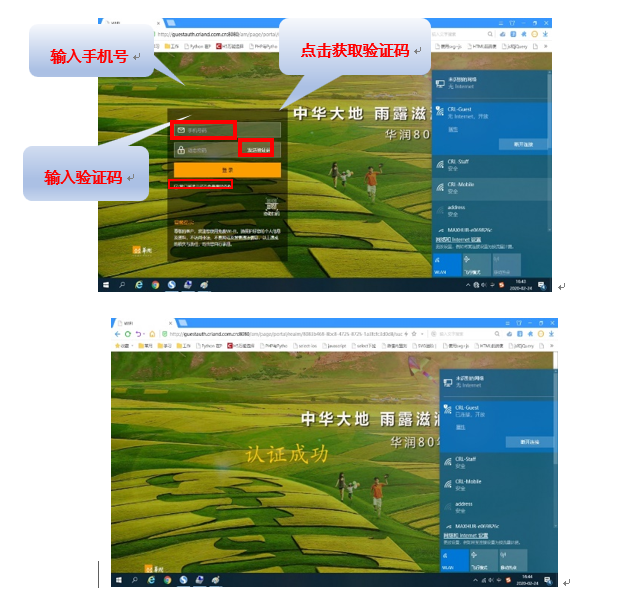
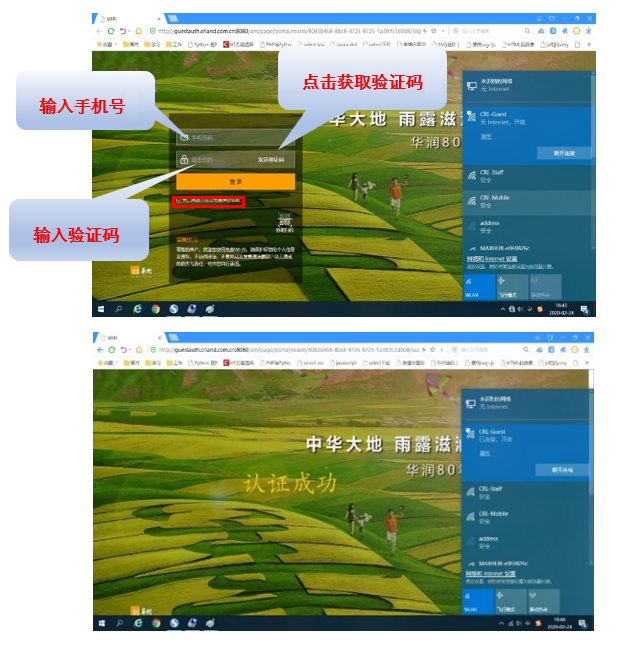
202002262

diff --git a/meeting/4l1meetins.html b/meeting/4l1meetins.html
@@ -1,0 +1,222 @@
+<!DOCTYPE html>
+<html lang="en">
+
+<head>
+    <meta charset="UTF-8">
+    <meta name="viewport" content="width=device-width, initial-scale=1.0">
+    <meta http-equiv="X-UA-Compatible" content="ie=edge">
+    <title>视频会议及Rmeet会议操作指引</title>
+    <link rel="stylesheet" href="../zbwxh/lib/layui/css/layui.css" media="all">
+    <link rel="stylesheet" type="text/css" href="../gotop/css/nav.css">
+    <link rel="stylesheet" type="text/css" href="../gotop/css/font-awesome.min.css">
+    <script type="text/javascript" src="../gotop/js/jquery.min.js"></script>
+    <script src="../zbwxh/lib/layui/layui.js" charset="utf-8"></script>
+    <script type="text/javascript" src="../gotop/js/nav.js"></script>
+    <style type="text/css">
+        body {
+            padding: 0;
+            margin: 0;
+            background: #f2f2f2;
+        }
+
+        .wrap .line {
+            height: 500px;
+            width: 188px;
+            margin: 0 auto;
+        }
+
+        .leftNav-item {
+            position: fixed;
+            left: 82%;
+            top: 80%;
+            z-index: 999999;
+        }
+    </style>
+    <SCRIPT language=javascript>
+        $(function () {
+            $('a').click(function () {
+                //根据a标签的href转换为id选择器，获取id元素所处的位置，并高度减50px（这里根据需要自由设置）
+                $('html,body').animate({
+                    scrollTop: ($($(this).attr('href')).offset().top - 0)
+                }, 500);
+            });
+        });
+    </SCRIPT>
+    <style>
+        .dropbtn {
+            background-color: #4CAF50;
+            color: white;
+            padding: 12px;
+            font-size: 400;
+            border: none;
+            cursor: pointer;
+            z-index: 999999;
+        }
+
+        .dropdown {
+            position: relative;
+            display: inline-block;
+            z-index: 999999;
+        }
+
+        .dropdown-content {
+            display: none;
+            position: absolute;
+            background-color: #f9f9f9;
+            min-width: 160px;
+            box-shadow: 0px 8px 16px 0px rgba(0, 0, 0, 0.2);
+            z-index: 999999;
+        }
+
+        .dropdown-content a {
+            color: black;
+            padding: 12px 16px;
+            text-decoration: none;
+            display: block;
+            z-index: 999999;
+        }
+
+        .dropdown-content a:hover {
+            background-color: #f1f1f1
+        }
+
+        .dropdown:hover .dropdown-content {
+            display: block;
+            z-index: 999999;
+        }
+
+        .dropdown:hover .dropbtn {
+            background-color: #3e8e41;
+            z-index: 999999;
+        }
+    </style>
+
+</head>
+<!--
+    <fieldset class="layui-elem-field layui-field-title" style="margin-top: 20px;">
+        <legend>淄博万象汇POS操作手册</legend>
+    </fieldset>
+    -->
+
+<body>
+    <div class="leftNav-item">
+        <ul>
+            <li title="在线客服">
+                <i class="fa fa-comments-o"></i>
+                <a cursor="pointer" href="tel:13370693115" class="rota">联系IT</a>
+            </li>
+            <li title="返回顶部" class="for-top">
+                <i class="fa fa-arrow-up"></i>
+                <a cursor="pointer" href="javascript:;" class="rota">回到顶部</a>
+            </li>
+        </ul>
+    </div>
+    <div class="layui-tab" lay-filter="demo" lay-allowclose="">
+
+        <ul class="layui-tab-title">
+            <li class="layui-this">本地会议</li>
+            <li>远程会议</li>
+            <li>Rmeet会议</li>
+
+        </ul>
+
+        <div class="layui-tab-content">
+            <div id="zn" class="layui-tab-item layui-show">
+
+                <div class="layui-col-md12">
+                    <div class="layui-card">
+                        <div id="syudl" class="layui-card-header">操作步骤:</div>
+                        <div class="layui-card-body">
+                            1 ）按遥控器开关打开投影仪，按遥控器Computer键将信号源切换至计算机2。</br>
+                            <img src="../img/meetins/5.png" width="100%" height="100%" />
+                            </br>
+                            2 ）打开电脑，将本地会议VGA线连接电脑VGA接口。</br>
+                        </div>
+                    </div>
+                </div>
+                <hr>
+                <div class="layui-col-md12">
+                    <div class="layui-card">
+                        <div id="xsxt" class="layui-card-header">常见问题</div>
+                        <div class="layui-card-body">
+                            <p id="WVGA">1 ）HDMI接口电脑，需使用VGA转换器进行信号转换。如下图所示：</p>
+                            <img src="../img/meetins/2.png" width="100%" height="100%" />
+                            <p id="LP">2 ）幕布蓝屏，需按电脑左下角<img src="../img/meetins/3.png" />     +P，切换至复制功能。如下图所示：</p>
+                            <img src="../img/meetins/4.png" width="100%" height="100%" />                     
+                        </div>
+                    </div>
+                </div>
+                <hr>
+                <div class="layui-footer footer footer-demo">
+                    <p>&copy; 2020 淄博万象汇信息组</p>
+                </div>
+            </div>
+            <div id="wt"class="layui-tab-item">
+                <div class="layui-col-md12">
+                    <div class="layui-card">
+                        <div sytle="cursor:pointer" id="wfkj" class="layui-card-header">操作步骤:</div>
+                        <div class="layui-card-body">
+                            1 ）按遥控器开关打开投影仪，按遥控器Computer键将信号源切换至计算机1。
+                            如下图所示：</br>
+                            <img src="../img/meetins/1.png" width="100%" height="100%" /></br>
+                            2 ）使用遥控器打开电视机（按开关键）和宝利通（按呼叫键），电视机上端摄像头朝前为宝利通开启状态，开启后如下图所示：</br>
+                            <img src="../img/meetins/6.png" width="100%" height="100%" /></br>
+                            3 ）打开电脑，将视频会议VGA线连接电脑VGA接口即可使用。</br>
+                            4 ）话筒<font color="red">红色</font>为静音状态，话筒<font color="green">绿色</font>为发言状态，如下图所示：</br>
+                            <img src="../img/meetins/8.png" width="100%" height="100%" /></br>
+
+                        </div>
+                    </div>
+                </div>
+                <hr>
+
+                <div class="layui-col-md12">
+                    <div class="layui-card">
+                        <div id="xsxt" class="layui-card-header">常见问题</div>
+                        <div class="layui-card-body">
+                            <p id="WVGA">1 ）HDMI接口电脑，需使用VGA转换器进行信号转换。如下图所示：</p>
+                            <img src="../img/meetins/7.png" width="100%" height="100%" />
+                            <p id="LP">2 ）幕布蓝屏，需按电脑左下角<img src="../img/meetins/3.png" />     +P，切换至复制功能。如下图所示：</p>
+                            <img src="../img/meetins/4.png" width="100%" height="100%" />                     
+                        </div>
+                    </div>
+                </div>
+                <hr>
+                <div class="layui-footer footer footer-demo">
+                    <p>&copy; 2020 淄博万象汇信息组</p>
+                </div>
+            </div>
+            <div id="wt"class="layui-tab-item">
+                <div class="layui-col-md12">
+                    <div class="layui-card">
+                        <div sytle="cursor:pointer" id="wfkj" class="layui-card-header">操作步骤:</div>
+                        <div class="layui-card-body">
+                            1 ）宝利通开启后，按呼叫键，输入IP地址120.76.52.117后按呼叫键，如下图所示：</br>
+                            <img src="../img/meetins/9.png" width="100%" height="100%" /></br>
+                            2 ）输入IP后会跳转到Rmeet拨号界面，连续按两下宝利通遥控器#号键，听到滴一声后输入会议号，按#号键加入如下图所示，若为加密会议，输入密码后按#号键加入 。</br>
+                            <img src="../img/meetins/10.png" width="100%" height="100%" /></br>
+                            <font color="red">*温馨提示：会议结束后，请关闭相关设备。如有问题，请点击右下角按钮“联系IT”。</font></br>
+                        </div>
+                    </div>
+                </div>
+                <hr>
+                <div class="layui-footer footer footer-demo">
+                    <p>&copy; 2020 淄博万象汇信息组</p>
+                </div>
+            </div>
+
+        </div>
+
+    </div>
+
+    <script>
+        //注意：选项卡 依赖 element 模块，否则无法进行功能性操作
+        layui.use('element', function () {
+            var element = layui.element;
+
+            //…
+        });
+    </script>
+</body>
+
+</html>

diff --git a/wifi/wifiins.html b/wifi/wifiins.html
@@ -5,7 +5,7 @@
     <meta charset="UTF-8">
     <meta name="viewport" content="width=device-width, initial-scale=1.0">
     <meta http-equiv="X-UA-Compatible" content="ie=edge">
-    <title>淄博万象汇Wifi连接手册</title>
+    <title>淄博万象汇管理中心WIFI连接指引</title>
     <link rel="stylesheet" href="../zbwxh/lib/layui/css/layui.css" media="all">
     <link rel="stylesheet" type="text/css" href="../gotop/css/nav.css">
     <link rel="stylesheet" type="text/css" href="../gotop/css/font-awesome.min.css">
@@ -90,7 +90,6 @@
             z-index: 999999;
         }
     </style>
-
 </head>
 <!--
     <fieldset class="layui-elem-field layui-field-title" style="margin-top: 20px;">
@@ -125,8 +124,8 @@
                     <div class="layui-form-item">
 
                         <div class="layui-inline">
-                            华润置地总部要求置地统一无线及网络安全准入。</br>
-                            CRL-Staff：用于华润员工笔记本无线办公。</br>CRL-Mobile：用于华润员工手机及平板无线办公</br></br>若提示连接失败，
+                            华润员工办公WIFI分为两种：</br>
+                            CRL-Staff：用于华润员工笔记本无线办公。</br>CRL-Mobile：用于华润员工手机及平板无线办公。</br></br>若提示连接失败，
                             请先检查域账户和密码是否正确，如有其他问题请点击屏幕右下方“联系IT”图标。</br></br>
                             <label class="layui-form-label">连接设备：</label>
 
@@ -151,9 +150,9 @@
                             1 ）点击笔记本无线图标，选择CRL-Staff。</br>
                             <img src="../img/wifiins/1.png" width="100%" height="100%" />
                             </br>
-                            2 ）认证弹窗输入“域账号和密码”，选择确认。</br>
+                            2 ）认证弹窗输入“域账号和密码”，选择“确认”。</br>
                             <img src="../img/wifiins/2.png" width="100%" height="100%" />
-                            3）提示“继续连接”时，选择“连接” ，连接完成。
+                            3 ）提示“继续连接”时，选择“连接” ，连接完成。
                             <img src="../img/wifiins/3.png" width="100%" height="100%" />
                         </div>
                     </div>
@@ -187,7 +186,7 @@
                 </div>
                 <hr>
                 <div class="layui-footer footer footer-demo">
-                    <p>&copy; 2020 淄博万象汇信息管理部</p>
+                    <p>&copy; 2020 淄博万象汇信息组</p>
                 </div>
             </div>
 
@@ -195,18 +194,16 @@
             <div id="wt" class="layui-tab-item">
                 <blockquote class="layui-elem-quote layui-quote-nm">
                     <div class="layui-form-item">
-                        <div class="layui-inline">华润置地总部要求置地统一无线及网络安全准入。</br>
-                            CRL-Guest用于外来访客访问互联网。无法访问内网办公系统。</br></br>
+                        <div class="layui-inline">
+                            外来访客使用CRL-Guest访问互联网。</br></br>
                             如有其他问题请点击屏幕右下方“联系IT”图标。</br></br>
                             <label class="layui-form-label">连接设备：</label>
                             <div class="layui-input-inline">
                                 <div class="dropdown">
                                     <button class="dropbtn">请选择连接设备：</button>
                                     <div class="dropdown-content">
-                                        <a href="#FHRBJB">笔记本连接指引</a>
-                                        <a href="#FHRSJ">手机连接指引</a>
-
-
+                                        <a href="#FHRBJB">笔记本</a>
+                                        <a href="#FHRSJ">手机</a>
                                     </div>
                                 </div>
                             </div>
@@ -218,10 +215,10 @@
                     <div class="layui-card">
                         <div sytle="cursor:pointer" id="wfkj" class="layui-card-header">一、笔记本连接指引</div>
                         <div class="layui-card-body">
-                            1）点击笔记本无线图标，选择CRL-Guest</br>
+                            1 ）点击笔记本无线图标，选择CRL-Guest</br>
                             <img src="../img/wifiins/9.png" width="100%" height="100%" />
-                            2）2. 选择“连接”，跳转到认证页面，输入手机号，获取验证码登录。提示认证成功后，即可连接互联网。
-                            注：若未跳转至认证页面，请手动使用浏览器打开任意网页，即可跳转至认证界面。
+                            2 ）选择“连接”，跳转到认证页面，输入手机号，获取验证码登录。提示认证成功后，即可连接互联网。</br>
+                            <font color="red">注：若未跳转至认证页面，请手动使用浏览器打开任意网页，即可跳转至认证界面。</font></br>
                             </br>
                             <img src="../img/wifiins/10.png" width="100%" height="100%" />
                         </div>
@@ -232,12 +229,10 @@
                     <div class="layui-card">
                         <div sytle="cursor:pointer" id="lwsb" class="layui-card-header">二、手机连接指引</div>
                         <div class="layui-card-body">
-                            1）打开手机WLAN，选择CRL-Guest连接。</br>
+                            1 ）打开手机WLAN，选择CRL-Guest连接。</br>
                             <img src="../img/wifiins/11.png" width="100%" height="100%" /></br>
-
-                            2. 认证页面输入手机号，获取验证码登录；提示认证成功后，即可上网。
-                            注：若未跳转至认证页面，请手动使用浏览器打开任意网页，即可跳转至认证界面
-                            </br>
+                            2 ）认证页面输入手机号，获取验证码登录；提示认证成功后，即可连接互联网。</br>
+                            <font color="red">注：若未跳转至认证页面，请手动使用浏览器打开任意网页，即可跳转至认证界面。</font></br>
                             <img src="../img/wifiins/12.png" width="100%" height="100%" />
 
                         </div>
@@ -245,7 +240,7 @@
                 </div>
                 <hr>
                 <div class="layui-footer footer footer-demo">
-                    <p>&copy; 2020 淄博万象汇信息管理部</p>
+                    <p>&copy; 2020 淄博万象汇信息组</p>
                 </div>
             </div>
 
